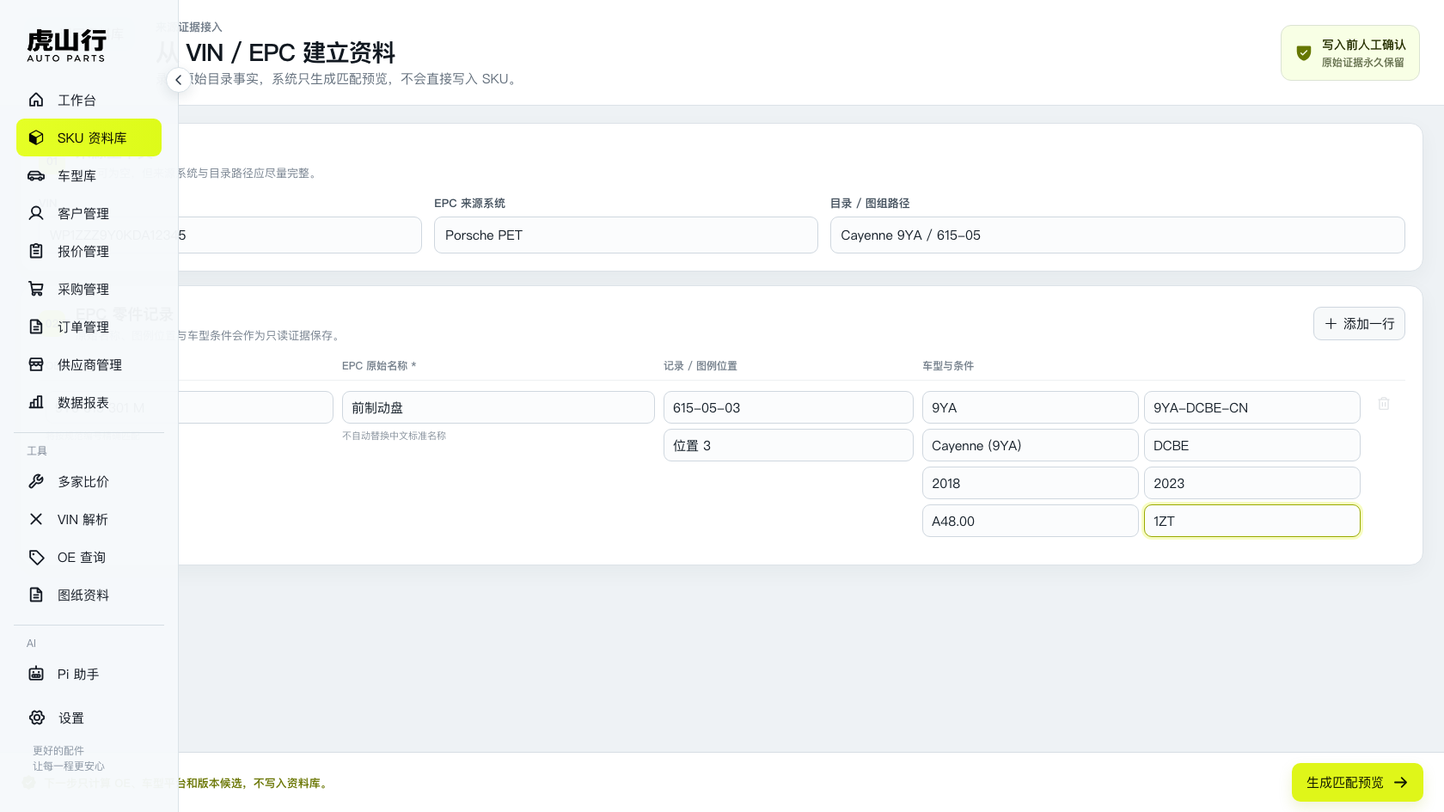
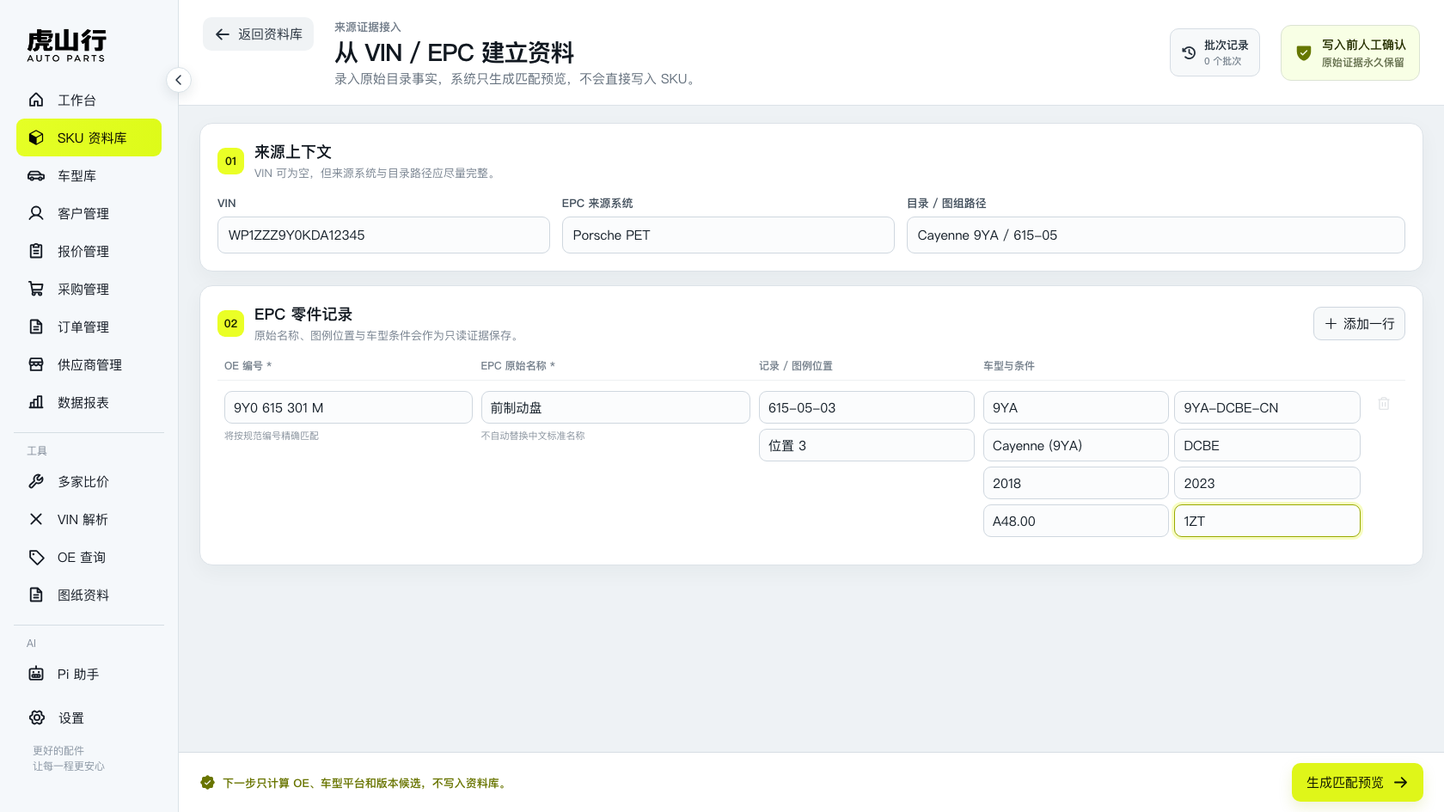
feat: add resumable EPC intake history

diff --git a/apps/web/src/sku-epc-intake.css b/apps/web/src/sku-epc-intake.css
@@ -1,1 +1,1 @@
-.epc-intake{grid-column:2;min-width:0;height:100vh;background:#eef2f5;color:#111820;display:grid;grid-template-rows:auto 1fr auto;overflow:hidden}.sidebar-collapsed .epc-intake{grid-column:2}.epc-intake button,.epc-intake input{font:inherit}.epc-intake-topbar{min-height:112px;padding:20px 28px;background:#fff;border-bottom:1px solid #dce2e8;display:flex;align-items:center;gap:24px}.epc-intake-topbar>button{align-self:flex-start;border:0;background:#f0f3f5;border-radius:10px;padding:9px 13px;color:#25303c;display:flex;align-items:center;gap:8px;font-size:14px;font-weight:700;cursor:pointer}.epc-intake-topbar>div:nth-child(2){flex:1}.epc-intake-topbar span{font-size:13px;font-weight:800;color:#707b88}.epc-intake-topbar h1{margin:4px 0;font-size:28px;line-height:1.15;letter-spacing:-.035em}.epc-intake-topbar p{margin:0;color:#64707d;font-size:15px}.epc-safety{display:flex;align-items:center;gap:10px;padding:12px 15px;border:1px solid #dbe3d3;background:#f8ffe5;border-radius:12px;color:#667700}.epc-safety span{display:flex;flex-direction:column}.epc-safety strong{font-size:14px;color:#273000}.epc-safety small{font-size:12px;color:#66704f;margin-top:2px}.epc-form-body{padding:20px 24px 28px;overflow:auto}.epc-source-card,.epc-lines-card{background:#fff;border:1px solid #dce2e8;border-radius:15px;box-shadow:0 8px 24px rgba(28,39,51,.045)}.epc-source-card{padding:20px}.epc-lines-card{margin-top:16px;padding:20px}.epc-section-title{display:flex;align-items:center;gap:12px}.epc-section-title>span,.epc-decision-panel>header>span{width:31px;height:31px;border-radius:9px;background:#eaff26;color:#172000;display:grid;place-items:center;font-weight:900;font-size:13px}.epc-section-title h2,.epc-decision-panel h2{font-size:18px;margin:0}.epc-section-title p,.epc-decision-panel p{font-size:13px;color:#788390;margin:3px 0 0}.epc-section-title>button{margin-left:auto;border:1px solid #ced6df;background:#f7f9fa;border-radius:9px;padding:8px 11px;display:flex;align-items:center;gap:6px;font-size:13px;font-weight:800;cursor:pointer}.epc-source-fields{display:grid;grid-template-columns:1fr 1fr 1.5fr;gap:14px;margin-top:17px}.epc-source-fields label{display:flex;flex-direction:column;gap:7px}.epc-source-fields label span{font-size:13px;font-weight:800;color:#43505d}.epc-source-fields input,.epc-line input{border:1px solid #cfd7df;background:#fbfcfd;border-radius:9px;color:#16202a;outline:none}.epc-source-fields input{height:43px;padding:0 12px;font-size:15px}.epc-source-fields input:focus,.epc-line input:focus{border-color:#9aaa00;box-shadow:0 0 0 3px rgba(220,244,0,.24)}.epc-lines-head,.epc-line{display:grid;grid-template-columns:1.15fr 1.25fr 1fr 1.75fr 34px;gap:10px}.epc-lines-head{margin:18px 0 8px;padding:0 8px;color:#75808c;font-size:12px;font-weight:800}.epc-line{align-items:start;border-top:1px solid #edf0f2;padding:12px 8px}.epc-line>div{display:flex;flex-direction:column;gap:6px}.epc-line input{height:38px;padding:0 10px;font-size:14px;min-width:0}.epc-line small{font-size:11px;color:#89939e}.epc-line>button{height:34px;border:0;border-radius:8px;background:transparent;color:#87919c;cursor:pointer}.epc-line>button:hover:not(:disabled){color:#d7392f;background:#fff0ef}.epc-line>button:disabled{opacity:.3}.epc-condition-grid{display:grid!important;grid-template-columns:1fr 1fr;gap:6px!important}.epc-actionbar{background:#fff;border-top:1px solid #d6dde4;min-height:70px;padding:12px 24px;display:flex;align-items:center;gap:18px}.epc-actionbar>div{display:flex;align-items:center;gap:8px;color:#697500;font-size:13px;font-weight:700}.epc-actionbar>p{margin-left:auto;display:flex;align-items:center;gap:6px;color:#c43d31;font-size:13px}.epc-actionbar>button{margin-left:auto;border:0;border-radius:10px;background:#dff619;color:#101700;padding:12px 17px;display:flex;align-items:center;gap:10px;font-size:15px;font-weight:900;cursor:pointer;box-shadow:0 7px 16px rgba(158,178,0,.17)}.epc-actionbar>p+button{margin-left:0}.epc-actionbar>button:disabled{opacity:.48;cursor:not-allowed}.epc-summary-pills{display:flex;gap:7px}.epc-summary-pills span,.epc-match-badge,.epc-review-list em{border-radius:999px;padding:7px 10px;font-size:12px!important;font-style:normal}.exact{color:#087246!important;background:#e5f8ef!important}.new{color:#345da8!important;background:#e9f2ff!important}.ambiguous{color:#9c5f00!important;background:#fff1d9!important}.epc-review-grid{min-height:0;display:grid;grid-template-columns:330px minmax(430px,1fr) 310px;gap:12px;padding:14px}.epc-review-list,.epc-match-detail,.epc-decision-panel{min-height:0;background:#fff;border:1px solid #dce2e8;border-radius:14px;overflow:hidden}.epc-review-list{display:flex;flex-direction:column}.epc-review-list>header{padding:16px;border-bottom:1px solid #e4e8ec;display:flex;justify-content:space-between}.epc-review-list h2{font-size:17px;margin:0}.epc-review-list p{font-size:12px;color:#828c97;margin:3px 0 0}.epc-review-list>header>strong{color:#657300;font-size:13px}.epc-review-list>button{border:0;border-bottom:1px solid #edf0f2;background:#fff;padding:13px 12px;display:grid;grid-template-columns:20px 1fr auto;gap:10px;text-align:left;align-items:start;cursor:pointer}.epc-review-list>button.active{background:#f8ffd9;box-shadow:inset 3px 0 #d7ef00}.epc-review-list>button.done{opacity:.68}.epc-review-list input{margin-top:4px;accent-color:#9fb500}.epc-review-list button span{display:flex;flex-direction:column;min-width:0}.epc-review-list button b{font-size:16px}.epc-review-list button strong{font-size:13px;margin-top:3px;white-space:nowrap;overflow:hidden;text-overflow:ellipsis}.epc-review-list button small{font-size:11px;color:#7c8791;margin-top:4px}.epc-review-list em{align-self:center;white-space:nowrap;padding:5px 7px}.epc-match-detail{display:grid;grid-template-rows:auto 1fr}.epc-match-detail>header{padding:18px 20px;border-bottom:1px solid #e1e6eb;display:flex;justify-content:space-between;align-items:center}.epc-match-detail>header span{font-size:12px;font-weight:800;color:#7d8791}.epc-match-detail h2{font-size:25px;margin:3px 0}.epc-match-detail header p{font-size:14px;color:#53606d;margin:0}.epc-match-badge{display:flex;align-items:center;gap:7px;font-weight:900}.epc-detail-scroll{overflow:auto;padding:0 20px 22px}.epc-detail-scroll>section{padding:18px 0;border-bottom:1px solid #e7ebee}.epc-detail-title{display:flex;justify-content:space-between;align-items:center;margin-bottom:12px}.epc-detail-title h3{font-size:15px;margin:0}.epc-detail-title span{font-size:11px;color:#7e8994;background:#f1f4f6;padding:4px 7px;border-radius:6px}.epc-detail-scroll dl{display:grid;grid-template-columns:1fr 1fr;gap:10px;margin:0}.epc-detail-scroll dl div{background:#f6f8fa;border-radius:8px;padding:9px 10px}.epc-detail-scroll dt{font-size:11px;color:#82909c}.epc-detail-scroll dd{margin:4px 0 0;font-size:13px;font-weight:800}.epc-candidate,.epc-platform-match{display:flex;gap:10px;align-items:center;border:1px solid #dbe4d0;background:#fbfff0;border-radius:10px;padding:11px;color:#548200}.epc-candidate span,.epc-platform-match span{display:flex;flex:1;flex-direction:column;color:#1b2731}.epc-candidate strong,.epc-platform-match strong{font-size:14px}.epc-candidate small,.epc-platform-match small{font-size:11px;color:#77818b;margin-top:3px}.epc-candidate em{font-size:11px;color:#17714c;font-style:normal}.epc-no-candidate{display:flex;gap:10px;align-items:center;padding:13px;border:1px dashed #cbd6df;border-radius:10px;color:#587593}.epc-no-candidate.warning{color:#a76a00;background:#fffbf2}.epc-no-candidate span{display:flex;flex-direction:column}.epc-no-candidate strong{font-size:13px}.epc-no-candidate small{font-size:11px;color:#75818c;margin-top:3px}.epc-variant{display:grid;grid-template-columns:1fr auto;gap:4px 10px;padding:10px;border:1px solid #e1e6ea;border-radius:9px;margin-top:7px}.epc-variant div{display:flex;gap:8px}.epc-variant strong{font-size:13px}.epc-variant small{font-size:11px;color:#808b96}.epc-variant b{font-size:13px;color:#637000}.epc-variant p{grid-column:1/-1;margin:0;font-size:11px;color:#6e7984}.epc-decision-panel{padding:18px;display:flex;flex-direction:column}.epc-decision-panel>header>span{float:left;margin-right:10px}.epc-decision-panel>header p{clear:both;padding-top:12px;line-height:1.5}.epc-decision-options{margin-top:15px;display:flex;flex-direction:column;gap:8px}.epc-decision-options>label{border:1px solid #dbe1e6;border-radius:10px;padding:11px;display:flex;gap:9px;cursor:pointer}.epc-decision-options>label.active{border-color:#b8cc00;background:#f9ffdf;box-shadow:0 0 0 2px rgba(217,240,0,.22)}.epc-decision-options input{accent-color:#94a800}.epc-decision-options label span{display:flex;flex-direction:column}.epc-decision-options label strong{font-size:13px}.epc-decision-options label small{font-size:11px;color:#75808c;margin-top:3px;line-height:1.4}.epc-manual-warning{display:flex;gap:8px;padding:10px;color:#9b6400;background:#fff4dd;border-radius:9px}.epc-manual-warning span{display:flex;flex-direction:column}.epc-manual-warning strong{font-size:12px}.epc-manual-warning small{font-size:11px;margin-top:3px}.epc-write-contract{margin-top:auto;padding-top:16px;border-top:1px solid #e4e8eb}.epc-write-contract h3{font-size:13px;margin:0 0 9px}.epc-write-contract ul{list-style:none;margin:0;padding:0;display:flex;flex-direction:column;gap:7px}.epc-write-contract li{font-size:11px;color:#69747e;display:flex;align-items:center;gap:6px}.epc-write-contract li svg{color:#718000}@media(max-width:1280px){.epc-review-grid{grid-template-columns:290px minmax(390px,1fr) 280px}.epc-source-fields{grid-template-columns:1fr 1fr}.epc-source-fields label:last-child{grid-column:1/-1}.epc-lines-head,.epc-line{grid-template-columns:1fr 1fr .9fr 1.4fr 32px}}@media(max-width:1000px){.epc-review-grid{grid-template-columns:280px 1fr}.epc-decision-panel{grid-column:1/-1;min-height:240px}.epc-lines-head{display:none}.epc-line{grid-template-columns:1fr 1fr}.epc-line>button{position:absolute;right:30px}.epc-condition-grid{grid-column:1/-1}.epc-intake-topbar{align-items:flex-start;flex-wrap:wrap}}.epc-manual-warning{flex-wrap:wrap}.epc-manual-warning select{flex:0 0 100%;height:36px;border:1px solid #e2b558;border-radius:8px;background:#fff;padding:0 9px;color:#45320b;font-size:12px;outline:none}.epc-manual-warning select:focus{border-color:#a77800;box-shadow:0 0 0 3px rgba(255,198,55,.2)}
+.epc-intake{grid-column:2;min-width:0;height:100vh;background:#eef2f5;color:#111820;display:grid;grid-template-rows:auto 1fr auto;overflow:hidden}.sidebar-collapsed .epc-intake{grid-column:2}.epc-intake button,.epc-intake input{font:inherit}.epc-intake-topbar{min-height:112px;padding:20px 28px;background:#fff;border-bottom:1px solid #dce2e8;display:flex;align-items:center;gap:24px}.epc-intake-topbar>button{align-self:flex-start;border:0;background:#f0f3f5;border-radius:10px;padding:9px 13px;color:#25303c;display:flex;align-items:center;gap:8px;font-size:14px;font-weight:700;cursor:pointer}.epc-intake-topbar>div:nth-child(2){flex:1}.epc-intake-topbar span{font-size:13px;font-weight:800;color:#707b88}.epc-intake-topbar h1{margin:4px 0;font-size:28px;line-height:1.15;letter-spacing:-.035em}.epc-intake-topbar p{margin:0;color:#64707d;font-size:15px}.epc-safety{display:flex;align-items:center;gap:10px;padding:12px 15px;border:1px solid #dbe3d3;background:#f8ffe5;border-radius:12px;color:#667700}.epc-safety span{display:flex;flex-direction:column}.epc-safety strong{font-size:14px;color:#273000}.epc-safety small{font-size:12px;color:#66704f;margin-top:2px}.epc-form-body{padding:20px 24px 28px;overflow:auto}.epc-source-card,.epc-lines-card{background:#fff;border:1px solid #dce2e8;border-radius:15px;box-shadow:0 8px 24px rgba(28,39,51,.045)}.epc-source-card{padding:20px}.epc-lines-card{margin-top:16px;padding:20px}.epc-section-title{display:flex;align-items:center;gap:12px}.epc-section-title>span,.epc-decision-panel>header>span{width:31px;height:31px;border-radius:9px;background:#eaff26;color:#172000;display:grid;place-items:center;font-weight:900;font-size:13px}.epc-section-title h2,.epc-decision-panel h2{font-size:18px;margin:0}.epc-section-title p,.epc-decision-panel p{font-size:13px;color:#788390;margin:3px 0 0}.epc-section-title>button{margin-left:auto;border:1px solid #ced6df;background:#f7f9fa;border-radius:9px;padding:8px 11px;display:flex;align-items:center;gap:6px;font-size:13px;font-weight:800;cursor:pointer}.epc-source-fields{display:grid;grid-template-columns:1fr 1fr 1.5fr;gap:14px;margin-top:17px}.epc-source-fields label{display:flex;flex-direction:column;gap:7px}.epc-source-fields label span{font-size:13px;font-weight:800;color:#43505d}.epc-source-fields input,.epc-line input{border:1px solid #cfd7df;background:#fbfcfd;border-radius:9px;color:#16202a;outline:none}.epc-source-fields input{height:43px;padding:0 12px;font-size:15px}.epc-source-fields input:focus,.epc-line input:focus{border-color:#9aaa00;box-shadow:0 0 0 3px rgba(220,244,0,.24)}.epc-lines-head,.epc-line{display:grid;grid-template-columns:1.15fr 1.25fr 1fr 1.75fr 34px;gap:10px}.epc-lines-head{margin:18px 0 8px;padding:0 8px;color:#75808c;font-size:12px;font-weight:800}.epc-line{align-items:start;border-top:1px solid #edf0f2;padding:12px 8px}.epc-line>div{display:flex;flex-direction:column;gap:6px}.epc-line input{height:38px;padding:0 10px;font-size:14px;min-width:0}.epc-line small{font-size:11px;color:#89939e}.epc-line>button{height:34px;border:0;border-radius:8px;background:transparent;color:#87919c;cursor:pointer}.epc-line>button:hover:not(:disabled){color:#d7392f;background:#fff0ef}.epc-line>button:disabled{opacity:.3}.epc-condition-grid{display:grid!important;grid-template-columns:1fr 1fr;gap:6px!important}.epc-actionbar{background:#fff;border-top:1px solid #d6dde4;min-height:70px;padding:12px 24px;display:flex;align-items:center;gap:18px}.epc-actionbar>div{display:flex;align-items:center;gap:8px;color:#697500;font-size:13px;font-weight:700}.epc-actionbar>p{margin-left:auto;display:flex;align-items:center;gap:6px;color:#c43d31;font-size:13px}.epc-actionbar>button{margin-left:auto;border:0;border-radius:10px;background:#dff619;color:#101700;padding:12px 17px;display:flex;align-items:center;gap:10px;font-size:15px;font-weight:900;cursor:pointer;box-shadow:0 7px 16px rgba(158,178,0,.17)}.epc-actionbar>p+button{margin-left:0}.epc-actionbar>button:disabled{opacity:.48;cursor:not-allowed}.epc-summary-pills{display:flex;gap:7px}.epc-summary-pills span,.epc-match-badge,.epc-review-list em{border-radius:999px;padding:7px 10px;font-size:12px!important;font-style:normal}.exact{color:#087246!important;background:#e5f8ef!important}.new{color:#345da8!important;background:#e9f2ff!important}.ambiguous{color:#9c5f00!important;background:#fff1d9!important}.epc-review-grid{min-height:0;display:grid;grid-template-columns:330px minmax(430px,1fr) 310px;gap:12px;padding:14px}.epc-review-list,.epc-match-detail,.epc-decision-panel{min-height:0;background:#fff;border:1px solid #dce2e8;border-radius:14px;overflow:hidden}.epc-review-list{display:flex;flex-direction:column}.epc-review-list>header{padding:16px;border-bottom:1px solid #e4e8ec;display:flex;justify-content:space-between}.epc-review-list h2{font-size:17px;margin:0}.epc-review-list p{font-size:12px;color:#828c97;margin:3px 0 0}.epc-review-list>header>strong{color:#657300;font-size:13px}.epc-review-list>button{border:0;border-bottom:1px solid #edf0f2;background:#fff;padding:13px 12px;display:grid;grid-template-columns:20px 1fr auto;gap:10px;text-align:left;align-items:start;cursor:pointer}.epc-review-list>button.active{background:#f8ffd9;box-shadow:inset 3px 0 #d7ef00}.epc-review-list>button.done{opacity:.68}.epc-review-list input{margin-top:4px;accent-color:#9fb500}.epc-review-list button span{display:flex;flex-direction:column;min-width:0}.epc-review-list button b{font-size:16px}.epc-review-list button strong{font-size:13px;margin-top:3px;white-space:nowrap;overflow:hidden;text-overflow:ellipsis}.epc-review-list button small{font-size:11px;color:#7c8791;margin-top:4px}.epc-review-list em{align-self:center;white-space:nowrap;padding:5px 7px}.epc-match-detail{display:grid;grid-template-rows:auto 1fr}.epc-match-detail>header{padding:18px 20px;border-bottom:1px solid #e1e6eb;display:flex;justify-content:space-between;align-items:center}.epc-match-detail>header span{font-size:12px;font-weight:800;color:#7d8791}.epc-match-detail h2{font-size:25px;margin:3px 0}.epc-match-detail header p{font-size:14px;color:#53606d;margin:0}.epc-match-badge{display:flex;align-items:center;gap:7px;font-weight:900}.epc-detail-scroll{overflow:auto;padding:0 20px 22px}.epc-detail-scroll>section{padding:18px 0;border-bottom:1px solid #e7ebee}.epc-detail-title{display:flex;justify-content:space-between;align-items:center;margin-bottom:12px}.epc-detail-title h3{font-size:15px;margin:0}.epc-detail-title span{font-size:11px;color:#7e8994;background:#f1f4f6;padding:4px 7px;border-radius:6px}.epc-detail-scroll dl{display:grid;grid-template-columns:1fr 1fr;gap:10px;margin:0}.epc-detail-scroll dl div{background:#f6f8fa;border-radius:8px;padding:9px 10px}.epc-detail-scroll dt{font-size:11px;color:#82909c}.epc-detail-scroll dd{margin:4px 0 0;font-size:13px;font-weight:800}.epc-candidate,.epc-platform-match{display:flex;gap:10px;align-items:center;border:1px solid #dbe4d0;background:#fbfff0;border-radius:10px;padding:11px;color:#548200}.epc-candidate span,.epc-platform-match span{display:flex;flex:1;flex-direction:column;color:#1b2731}.epc-candidate strong,.epc-platform-match strong{font-size:14px}.epc-candidate small,.epc-platform-match small{font-size:11px;color:#77818b;margin-top:3px}.epc-candidate em{font-size:11px;color:#17714c;font-style:normal}.epc-no-candidate{display:flex;gap:10px;align-items:center;padding:13px;border:1px dashed #cbd6df;border-radius:10px;color:#587593}.epc-no-candidate.warning{color:#a76a00;background:#fffbf2}.epc-no-candidate span{display:flex;flex-direction:column}.epc-no-candidate strong{font-size:13px}.epc-no-candidate small{font-size:11px;color:#75818c;margin-top:3px}.epc-variant{display:grid;grid-template-columns:1fr auto;gap:4px 10px;padding:10px;border:1px solid #e1e6ea;border-radius:9px;margin-top:7px}.epc-variant div{display:flex;gap:8px}.epc-variant strong{font-size:13px}.epc-variant small{font-size:11px;color:#808b96}.epc-variant b{font-size:13px;color:#637000}.epc-variant p{grid-column:1/-1;margin:0;font-size:11px;color:#6e7984}.epc-decision-panel{padding:18px;display:flex;flex-direction:column}.epc-decision-panel>header>span{float:left;margin-right:10px}.epc-decision-panel>header p{clear:both;padding-top:12px;line-height:1.5}.epc-decision-options{margin-top:15px;display:flex;flex-direction:column;gap:8px}.epc-decision-options>label{border:1px solid #dbe1e6;border-radius:10px;padding:11px;display:flex;gap:9px;cursor:pointer}.epc-decision-options>label.active{border-color:#b8cc00;background:#f9ffdf;box-shadow:0 0 0 2px rgba(217,240,0,.22)}.epc-decision-options input{accent-color:#94a800}.epc-decision-options label span{display:flex;flex-direction:column}.epc-decision-options label strong{font-size:13px}.epc-decision-options label small{font-size:11px;color:#75808c;margin-top:3px;line-height:1.4}.epc-manual-warning{display:flex;gap:8px;padding:10px;color:#9b6400;background:#fff4dd;border-radius:9px}.epc-manual-warning span{display:flex;flex-direction:column}.epc-manual-warning strong{font-size:12px}.epc-manual-warning small{font-size:11px;margin-top:3px}.epc-write-contract{margin-top:auto;padding-top:16px;border-top:1px solid #e4e8eb}.epc-write-contract h3{font-size:13px;margin:0 0 9px}.epc-write-contract ul{list-style:none;margin:0;padding:0;display:flex;flex-direction:column;gap:7px}.epc-write-contract li{font-size:11px;color:#69747e;display:flex;align-items:center;gap:6px}.epc-write-contract li svg{color:#718000}@media(max-width:1280px){.epc-review-grid{grid-template-columns:290px minmax(390px,1fr) 280px}.epc-source-fields{grid-template-columns:1fr 1fr}.epc-source-fields label:last-child{grid-column:1/-1}.epc-lines-head,.epc-line{grid-template-columns:1fr 1fr .9fr 1.4fr 32px}}@media(max-width:1000px){.epc-review-grid{grid-template-columns:280px 1fr}.epc-decision-panel{grid-column:1/-1;min-height:240px}.epc-lines-head{display:none}.epc-line{grid-template-columns:1fr 1fr}.epc-line>button{position:absolute;right:30px}.epc-condition-grid{grid-column:1/-1}.epc-intake-topbar{align-items:flex-start;flex-wrap:wrap}}.epc-manual-warning{flex-wrap:wrap}.epc-manual-warning select{flex:0 0 100%;height:36px;border:1px solid #e2b558;border-radius:8px;background:#fff;padding:0 9px;color:#45320b;font-size:12px;outline:none}.epc-manual-warning select:focus{border-color:#a77800;box-shadow:0 0 0 3px rgba(255,198,55,.2)}.epc-intake-topbar>.epc-history-button{align-self:center;border:1px solid #d6dde4;background:#f7f9fa;padding:9px 12px}.epc-history-button span{display:flex;flex-direction:column;align-items:flex-start}.epc-history-button strong{font-size:13px;color:#24303b}.epc-history-button small{font-size:11px;color:#7c8792;margin-top:2px}.epc-intake-topbar>.epc-new-batch{align-self:center;background:#dff619;color:#162000;padding:11px 14px}.epc-history-body{padding:18px 22px 24px;min-height:0;overflow:auto}.epc-history-panel{background:#fff;border:1px solid #dce2e8;border-radius:15px;box-shadow:0 8px 24px rgba(28,39,51,.045);overflow:hidden}.epc-history-panel>header{padding:18px 20px;border-bottom:1px solid #e2e7eb;display:flex;align-items:center;justify-content:space-between}.epc-history-panel h2{font-size:18px;margin:0}.epc-history-panel header p{font-size:13px;color:#7a8590;margin:3px 0 0}.epc-history-panel>header button{border:1px solid #d3dae1;background:#f8fafb;border-radius:8px;padding:7px 10px;display:flex;align-items:center;gap:6px;font-size:12px;font-weight:800;color:#43505d;cursor:pointer}.epc-history-heading,.epc-history-list>button{display:grid;grid-template-columns:minmax(270px,1.8fr) minmax(210px,1.15fr) minmax(130px,.7fr) minmax(110px,.65fr) 20px;gap:16px;align-items:center}.epc-history-heading{padding:10px 20px;background:#f5f7f9;color:#727e89;font-size:11px;font-weight:800}.epc-history-list>button{width:100%;padding:15px 20px;border:0;border-top:1px solid #edf0f2;background:#fff;text-align:left;color:#1c2630;cursor:pointer}.epc-history-list>button:hover{background:#fbfdea}.epc-history-list>button:focus-visible{outline:3px solid rgba(202,224,0,.35);outline-offset:-3px}.epc-history-list>button>span:first-child{display:flex;flex-direction:column;min-width:0}.epc-history-list>button strong{font-size:15px}.epc-history-list>button small{font-size:12px;color:#7b8691;margin-top:4px;white-space:nowrap;overflow:hidden;text-overflow:ellipsis}.epc-history-list>button>span:nth-child(2){display:flex;gap:5px;flex-wrap:wrap}.epc-history-list>button b{font-size:11px;font-weight:800;background:#f1f4f6;color:#56626e;padding:4px 6px;border-radius:6px}.epc-history-list em{justify-self:start;border-radius:999px;padding:5px 8px;font-size:11px;font-weight:900;font-style:normal;white-space:nowrap}.epc-history-list em.pending{background:#fff2d8;color:#946000}.epc-history-list em.partial{background:#e8f1ff;color:#315f9b}.epc-history-list em.completed{background:#e5f8ef;color:#087246}.epc-history-list time{font-size:12px;color:#66727e}.epc-history-empty{min-height:330px;display:flex;flex-direction:column;align-items:center;justify-content:center;color:#71808d}.epc-history-empty strong{font-size:16px;color:#2a3540;margin-top:8px}.epc-history-empty span{font-size:12px;margin-top:5px}.epc-history-empty button{margin-top:14px;border:0;border-radius:9px;background:#dff619;padding:9px 13px;font-size:13px;font-weight:900;cursor:pointer}.epc-history-loading{padding:80px;text-align:center;color:#78838e;font-size:13px}@media(max-width:1180px){.epc-history-heading,.epc-history-list>button{grid-template-columns:minmax(240px,1.5fr) minmax(190px,1fr) minmax(120px,.7fr) 20px}.epc-history-heading span:nth-child(4),.epc-history-list time{display:none}}.epc-intake{margin-left:var(--wb-sidebar-expanded)}.sidebar-collapsed .epc-intake{margin-left:var(--wb-sidebar-rail)}

diff --git a/apps/web/src/components/SkuEpcIntake.jsx b/apps/web/src/components/SkuEpcIntake.jsx
@@ -1,6 +1,6 @@
-import { useMemo, useState } from 'react'
-import { ArrowLeft, ArrowRight, Check, CheckCircle, Database, MagnifyingGlass as FileSearch, Plus, SealCheck, ShieldCheck, Trash, WarningCircle } from '@phosphor-icons/react'
-import { commitCatalogEpcPreview, createCatalogEpcPreview } from '../services/catalogApi'
+import { useCallback, useEffect, useMemo, useState } from 'react'
+import { ArrowLeft, ArrowRight, Check, CheckCircle, ClockCounterClockwise, Database, MagnifyingGlass as FileSearch, Plus, SealCheck, ShieldCheck, Trash, WarningCircle } from '@phosphor-icons/react'
+import { commitCatalogEpcPreview, createCatalogEpcPreview, getCatalogEpcPreview, listCatalogEpcPreviews } from '../services/catalogApi'
 import '../sku-epc-intake.css'
 
 const emptyRow = () => ({ oe: '', originalName: '', sourceRecordId: '', figurePosition: '', platformCode: '', variantCode: '', vehicleLabel: '', yearFrom: '', yearTo: '', engineCodesText: '', transmissionCodesText: '', prCodesText: '', position: '' })
@@ -15,6 +15,23 @@ function toPayload(row) {
   return { ...row, yearFrom: row.yearFrom || null, yearTo: row.yearTo || null, engineCodes: splitCodes(row.engineCodesText), transmissionCodes: splitCodes(row.transmissionCodesText), prCodes: splitCodes(row.prCodesText) }
 }
 
+function previewDecisions(preview) {
+  return Object.fromEntries(preview.items.map((item) => [item.id, {
+    selected: item.decisionState === 'pending' && item.matchState !== 'ambiguous',
+    action: item.matchState === 'exact' ? 'attach_evidence' : item.matchState === 'new' ? 'create_sku' : 'skip',
+    targetSkuId: item.matchedSkuId || '',
+  }]))
+}
+
+function displayTime(value) {
+  if (!value) return '—'
+  return new Intl.DateTimeFormat('zh-CN', { month: '2-digit', day: '2-digit', hour: '2-digit', minute: '2-digit', hour12: false }).format(new Date(value))
+}
+
+const previewStateMeta = {
+  preview: ['待处理', 'pending'], partial: ['处理中', 'partial'], completed: ['已完成', 'completed'],
+}
+
 export function SkuEpcIntake({ onBack, onComplete, onNotify }) {
   const [form, setForm] = useState({ vin: '', sourceSystem: 'Porsche PET', catalogPath: '', rows: [emptyRow()] })
   const [preview, setPreview] = useState(null)
@@ -22,17 +39,36 @@ export function SkuEpcIntake({ onBack, onComplete, onNotify }) {
   const [decisions, setDecisions] = useState({})
   const [busy, setBusy] = useState(false)
   const [error, setError] = useState('')
+  const [historyOpen, setHistoryOpen] = useState(false)
+  const [history, setHistory] = useState({ items: [], total: 0 })
+  const [historyLoading, setHistoryLoading] = useState(true)
   const selected = preview?.items.find((item) => item.id === selectedId) || preview?.items[0]
   const selectedDecisions = useMemo(() => preview?.items.filter((item) => decisions[item.id]?.selected && item.decisionState === 'pending') || [], [decisions, preview])
 
   const updateRow = (index, key, value) => setForm((current) => ({ ...current, rows: current.rows.map((row, rowIndex) => rowIndex === index ? { ...row, [key]: value } : row) }))
+
+  const loadHistory = useCallback(async () => {
+    setHistoryLoading(true)
+    try { setHistory(await listCatalogEpcPreviews()) } catch (nextError) { setError(nextError.message) } finally { setHistoryLoading(false) }
+  }, [])
+
+  useEffect(() => { loadHistory() }, [loadHistory])
+
+  const openHistory = async (id) => {
+    setBusy(true); setError('')
+    try {
+      const result = await getCatalogEpcPreview(id)
+      setPreview(result); setSelectedId(result.items.find((item) => item.decisionState === 'pending')?.id || result.items[0]?.id || '')
+      setDecisions(previewDecisions(result))
+    } catch (nextError) { setError(nextError.message) } finally { setBusy(false) }
+  }
 
   const buildPreview = async () => {
     setBusy(true); setError('')
     try {
       const result = await createCatalogEpcPreview({ vin: form.vin, sourceSystem: form.sourceSystem, catalogPath: form.catalogPath, items: form.rows.map(toPayload) })
       setPreview(result); setSelectedId(result.items[0]?.id || '')
-      setDecisions(Object.fromEntries(result.items.map((item) => [item.id, { selected: item.matchState !== 'ambiguous', action: item.matchState === 'exact' ? 'attach_evidence' : item.matchState === 'new' ? 'create_sku' : 'skip', targetSkuId: item.matchedSkuId || '' } ])))
+      setDecisions(previewDecisions(result)); loadHistory()
     } catch (nextError) { setError(nextError.message) } finally { setBusy(false) }
   }
 
@@ -41,14 +77,32 @@ export function SkuEpcIntake({ onBack, onComplete, onNotify }) {
     try {
       const result = await commitCatalogEpcPreview(preview, selectedDecisions.map((item) => ({ itemId: item.id, action: decisions[item.id].action, targetSkuId: decisions[item.id].targetSkuId })))
       setPreview(result)
+      setDecisions(previewDecisions(result)); loadHistory()
       onNotify?.(`已处理 ${selectedDecisions.length} 条 EPC 记录，人工字段保持不变`)
-      if (result.state === 'completed') onComplete?.(result)
     } catch (nextError) { setError(nextError.message) } finally { setBusy(false) }
   }
 
+  if (!preview && historyOpen) return (
+    <main className="epc-intake epc-history-workspace">
+      <header className="epc-intake-topbar"><button type="button" onClick={onBack}><ArrowLeft size={20} weight="bold" />返回资料库</button><div><span>来源证据接入</span><h1>EPC 批次记录</h1><p>恢复未完成批次，核对每一次写入决定与结果 SKU。</p></div><button className="epc-new-batch" type="button" onClick={() => setHistoryOpen(false)}><Plus size={18} weight="bold" />新建采集</button></header>
+      <div className="epc-history-body">
+        <section className="epc-history-panel">
+          <header><div><h2>证据处理队列</h2><p>原始来源不会因批次完成而删除，未选择行可继续处理。</p></div><button type="button" disabled={historyLoading} onClick={loadHistory}><ClockCounterClockwise size={17} />刷新</button></header>
+          <div className="epc-history-heading"><span>来源 / 目录</span><span>匹配摘要</span><span>处理状态</span><span>建立时间</span><span /></div>
+          <div className="epc-history-list">
+            {history.items.map((item) => { const meta = previewStateMeta[item.state] || previewStateMeta.preview; return <button type="button" key={item.id} disabled={busy} onClick={() => openHistory(item.id)}><span><strong>{item.sourceSystem}</strong><small>{item.catalogPath || '未填写目录路径'}{item.vin ? ` · ${item.vin}` : ''}</small></span><span><b>{item.summary?.exact || 0} 精确</b><b>{item.summary?.new || 0} 新建</b><b>{item.summary?.ambiguous || 0} 待判断</b></span><em className={meta[1]}>{meta[0]} · {item.progress?.processed || 0}/{item.progress?.total || item.summary?.total || 0}</em><time>{displayTime(item.createdAt)}</time><ArrowRight size={17} weight="bold" /></button> })}
+            {!historyLoading && !history.items.length ? <div className="epc-history-empty"><Database size={34} weight="duotone" /><strong>还没有 EPC 批次</strong><span>新建采集后，匹配预览和每次写入决定都会保存在这里。</span><button type="button" onClick={() => setHistoryOpen(false)}>新建第一批资料</button></div> : null}
+            {historyLoading ? <div className="epc-history-loading">正在读取证据批次…</div> : null}
+          </div>
+        </section>
+      </div>
+      <footer className="epc-actionbar"><div><SealCheck size={19} weight="fill" /><span>批次记录是审计依据，不提供删除入口。</span></div>{error ? <p><WarningCircle size={18} />{error}</p> : null}<button type="button" onClick={() => setHistoryOpen(false)}>新建 EPC 采集<ArrowRight size={19} weight="bold" /></button></footer>
+    </main>
+  )
+
   if (!preview) return (
     <main className="epc-intake epc-intake-form">
-      <header className="epc-intake-topbar"><button type="button" onClick={onBack}><ArrowLeft size={20} weight="bold" />返回资料库</button><div><span>来源证据接入</span><h1>从 VIN / EPC 建立资料</h1><p>录入原始目录事实，系统只生成匹配预览，不会直接写入 SKU。</p></div><div className="epc-safety"><ShieldCheck size={22} weight="fill" /><span><strong>写入前人工确认</strong><small>原始证据永久保留</small></span></div></header>
+      <header className="epc-intake-topbar"><button type="button" onClick={onBack}><ArrowLeft size={20} weight="bold" />返回资料库</button><div><span>来源证据接入</span><h1>从 VIN / EPC 建立资料</h1><p>录入原始目录事实，系统只生成匹配预览，不会直接写入 SKU。</p></div><button className="epc-history-button" type="button" onClick={() => setHistoryOpen(true)}><ClockCounterClockwise size={19} weight="bold" /><span><strong>批次记录</strong><small>{historyLoading ? '正在读取' : `${history.total} 个批次`}</small></span></button><div className="epc-safety"><ShieldCheck size={22} weight="fill" /><span><strong>写入前人工确认</strong><small>原始证据永久保留</small></span></div></header>
       <div className="epc-form-body">
         <section className="epc-source-card"><div className="epc-section-title"><span>01</span><div><h2>来源上下文</h2><p>VIN 可为空，但来源系统与目录路径应尽量完整。</p></div></div><div className="epc-source-fields"><label><span>VIN</span><input value={form.vin} maxLength={17} onChange={(event) => setForm({ ...form, vin: event.target.value.toUpperCase() })} placeholder="17 位 VIN" /></label><label><span>EPC 来源系统</span><input value={form.sourceSystem} onChange={(event) => setForm({ ...form, sourceSystem: event.target.value })} placeholder="例如 Porsche PET" /></label><label><span>目录 / 图组路径</span><input value={form.catalogPath} onChange={(event) => setForm({ ...form, catalogPath: event.target.value })} placeholder="例如 Macan 95B / 601-05" /></label></div></section>
         <section className="epc-lines-card"><div className="epc-section-title"><span>02</span><div><h2>EPC 零件记录</h2><p>原始名称、图例位置与车型条件会作为只读证据保存。</p></div><button type="button" onClick={() => setForm((current) => ({ ...current, rows: [...current.rows, emptyRow()] }))}><Plus size={17} />添加一行</button></div>
@@ -79,7 +133,7 @@ export function SkuEpcIntake({ onBack, onComplete, onNotify }) {
 
   return (
     <main className="epc-intake epc-review">
-      <header className="epc-intake-topbar"><button type="button" onClick={() => setPreview(null)}><ArrowLeft size={20} weight="bold" />返回修改来源</button><div><span>写入前匹配预览</span><h1>{preview.sourceSystem} · {preview.catalogPath || '未填写目录路径'}</h1><p>{preview.vin ? `VIN ${preview.vin}` : '无 VIN 上下文'} · 共 {preview.summary.total} 条</p></div><div className="epc-summary-pills"><span className="exact">{preview.summary.exact} 精确</span><span className="new">{preview.summary.new} 新建</span><span className="ambiguous">{preview.summary.ambiguous} 待判断</span></div></header>
+      <header className="epc-intake-topbar"><button type="button" onClick={() => { setPreview(null); setHistoryOpen(true); loadHistory() }}><ArrowLeft size={20} weight="bold" />返回批次记录</button><div><span>写入前匹配预览</span><h1>{preview.sourceSystem} · {preview.catalogPath || '未填写目录路径'}</h1><p>{preview.vin ? `VIN ${preview.vin}` : '无 VIN 上下文'} · 共 {preview.summary.total} 条 · v{preview.version}</p></div><div className="epc-summary-pills"><span className="exact">{preview.summary.exact} 精确</span><span className="new">{preview.summary.new} 新建</span><span className="ambiguous">{preview.summary.ambiguous} 待判断</span></div></header>
       <div className="epc-review-grid">
         <section className="epc-review-list"><header><div><h2>来源记录</h2><p>逐条选择是否写入</p></div><strong>{selectedDecisions.length} 已选</strong></header>{preview.items.map((item) => { const meta = statusMeta[item.matchState]; const decision = decisions[item.id] || {}; return <button type="button" className={`${selected?.id === item.id ? 'active' : ''} ${item.decisionState !== 'pending' ? 'done' : ''}`} key={item.id} onClick={() => setSelectedId(item.id)}><input type="checkbox" aria-label={`选择 ${item.oe}`} disabled={item.decisionState !== 'pending' || item.matchState === 'ambiguous'} checked={Boolean(decision.selected)} onClick={(event) => event.stopPropagation()} onChange={(event) => setDecisions((current) => ({ ...current, [item.id]: { ...current[item.id], selected: event.target.checked } }))} /><span><b>{item.oe}</b><strong>{item.originalName}</strong><small>{item.figurePosition || '无图例位置'}</small></span><em className={meta.className}>{item.decisionState === 'pending' ? meta.label : item.decisionState === 'created' ? '已新建' : item.decisionState === 'attached' ? '已附加' : '已跳过'}</em></button> })}</section>
         <section className="epc-match-detail">{selected ? <><header><div><span>规范 OE</span><h2>{selected.oe}</h2><p>{selected.originalName}</p></div><span className={`epc-match-badge ${statusMeta[selected.matchState].className}`}><FileSearch size={20} weight="duotone" />{statusMeta[selected.matchState].label}</span></header><div className="epc-detail-scroll"><section><div className="epc-detail-title"><h3>来源快照</h3><span>只读</span></div><dl><div><dt>来源记录</dt><dd>{selected.sourceRecordId || '—'}</dd></div><div><dt>图例位置</dt><dd>{selected.figurePosition || '—'}</dd></div><div><dt>平台提示</dt><dd>{selected.vehicleContext.platformCode || '—'}</dd></div><div><dt>车型版本</dt><dd>{selected.vehicleContext.variantCode || '—'}</dd></div><div><dt>发动机</dt><dd>{selected.vehicleContext.engineCodes?.join(' / ') || '—'}</dd></div><div><dt>PR 码</dt><dd>{selected.vehicleContext.prCodes?.join(' / ') || '—'}</dd></div></dl></section><section><div className="epc-detail-title"><h3>SKU 匹配解释</h3><span>{selected.matchCandidates.length} 个候选</span></div>{selected.matchCandidates.length ? selected.matchCandidates.map((candidate) => <article className="epc-candidate" key={candidate.id}><CheckCircle size={20} weight="fill" /><span><strong>{candidate.name || '未命名 SKU'}</strong><small>{candidate.skuCode} · v{candidate.version}</small></span><em>OE 完全一致</em></article>) : <div className="epc-no-candidate"><Database size={24} /><span><strong>没有相同 OE</strong><small>可建立草稿，名称仍需人工标准化。</small></span></div>}</section><section><div className="epc-detail-title"><h3>车型匹配解释</h3><span>{selected.platformMatch.id ? '平台已识别' : '未识别平台'}</span></div>{selected.platformMatch.id ? <article className="epc-platform-match"><ShieldCheck size={21} weight="fill" /><span><strong>{selected.platformMatch.label}</strong><small>{selected.platformMatch.code} · {selected.platformMatch.yearFrom || '—'}–{selected.platformMatch.yearTo || '—'}</small></span></article> : <div className="epc-no-candidate warning"><WarningCircle size={24} /><span><strong>平台未进入主数据</strong><small>仍可保存来源证据，但不会自动建立适配关系。</small></span></div>}{selected.variantCandidates.map((candidate) => <article className="epc-variant" key={candidate.id}><div><strong>{candidate.label}</strong><small>{candidate.code}</small></div><b>{candidate.score} 分</b><p>{candidate.reasons.join(' · ')}</p></article>)}</section></div></> : null}</section>
@@ -110,7 +164,7 @@ export function SkuEpcIntake({ onBack, onComplete, onNotify }) {
           <div className="epc-write-contract"><h3>本次写入边界</h3><ul><li><Check size={15} weight="bold" />原始名称、图组与 VIN 完整保留</li><li><Check size={15} weight="bold" />新适配关系默认为待核验</li><li><Check size={15} weight="bold" />现有人工名称、分类、价格不覆盖</li></ul></div>
         </aside>
       </div>
-      <footer className="epc-actionbar"><div><SealCheck size={19} weight="fill" /><span>将处理 {selectedDecisions.length} 条；所有决定都会留下审计记录。</span></div>{error ? <p><WarningCircle size={18} />{error}</p> : null}<button type="button" disabled={busy || !selectedDecisions.length} onClick={commit}>{busy ? '正在写入…' : '确认写入所选记录'}<ArrowRight size={19} weight="bold" /></button></footer>
+      <footer className="epc-actionbar"><div><SealCheck size={19} weight="fill" /><span>{preview.state === 'completed' ? '批次已完成；所有来源行和写入决定均已留痕。' : `将处理 ${selectedDecisions.length} 条；未选行可稍后从批次记录继续。`}</span></div>{error ? <p><WarningCircle size={18} />{error}</p> : null}{preview.state === 'completed' ? <button type="button" onClick={() => onComplete?.(preview)}>完成并返回资料库<ArrowRight size={19} weight="bold" /></button> : <button type="button" disabled={busy || !selectedDecisions.length} onClick={commit}>{busy ? '正在写入…' : '确认写入所选记录'}<ArrowRight size={19} weight="bold" /></button>}</footer>
     </main>
   )
 }

diff --git a/apps/web/tests/dashboard.spec.js b/apps/web/tests/dashboard.spec.js
@@ -164,6 +164,12 @@ test('creates a source-first SKU and submits it into the review queue', async ({
   const committed = await (await commitResponse).json()
   const skuId = committed.items[0].resultingSkuId
   expect(skuId).toBeTruthy()
+  await expect(page.getByRole('button', { name: '完成并返回资料库' })).toBeVisible()
+  await page.getByRole('button', { name: '返回批次记录' }).click()
+  await expect(page.getByRole('heading', { name: 'EPC 批次记录' })).toBeVisible()
+  await expect(page.getByText('已完成 · 1/1')).toBeVisible()
+  await expect(page.getByText(/Cayenne 9YA \/ 615-05/)).toBeVisible()
+  await page.screenshot({ path: 'qa-artifacts/implementation-sku-epc-history-1680.png', fullPage: false })
 
   const created = await (await page.request.get(`/api/v2/catalog/skus/${skuId}`)).json()
   const completed = await page.request.patch(`/api/v2/catalog/skus/${skuId}`, { data: {
@@ -177,9 +183,36 @@ test('creates a source-first SKU and submits it into the review queue', async ({
   expect(completed.ok()).toBeTruthy()
   const submitted = await page.request.post(`/api/v2/catalog/skus/${skuId}/transition`, { data: { expectedVersion: (await completed.json()).version, action: 'submit_review', assignee: '资料审核员' } })
   expect(submitted.ok()).toBeTruthy()
-  await page.goto('./#/sku')
+  await page.getByRole('button', { name: '返回资料库' }).click()
   await expect(page.getByRole('heading', { name: 'SKU 资料库' })).toBeVisible()
   await expect(page.getByText('前制动盘', { exact: true }).first()).toBeVisible()
+})
+
+test('resumes a partial EPC batch without repeating completed decisions', async ({ page }) => {
+  const headers = { 'x-operator-role': 'catalog_admin', 'x-operator-name': 'playwright', 'content-type': 'application/json' }
+  const preview = await (await page.request.post('/api/v2/catalog/epc-previews', { headers, data: {
+    sourceSystem: 'Audi ETKA', catalogPath: 'Q7 4M / 121-05', items: [
+      { oe: 'RESUME-EPC-001', originalName: 'Source row one', sourceRecordId: '121-05-01' },
+      { oe: 'RESUME-EPC-002', originalName: 'Source row two', sourceRecordId: '121-05-02' },
+    ],
+  } })).json()
+  const partial = await page.request.post(`/api/v2/catalog/epc-previews/${preview.id}/commit`, { headers, data: { expectedVersion: preview.version, decisions: [{ itemId: preview.items[0].id, action: 'skip' }] } })
+  expect(partial.ok()).toBeTruthy()
+  expect((await partial.json()).state).toBe('partial')
+
+  await page.getByRole('button', { name: 'SKU 资料库' }).click()
+  await page.getByRole('button', { name: '新建 SKU' }).click()
+  await page.getByRole('button', { name: /从 EPC \/ VIN 创建/ }).click()
+  await page.getByRole('button', { name: /批次记录/ }).click()
+  await expect(page.getByText('处理中 · 1/2')).toBeVisible()
+  await page.getByRole('button', { name: /Audi ETKA/ }).click()
+  await expect(page.getByText('已跳过', { exact: true })).toBeVisible()
+  await expect(page.getByText('建议新建', { exact: true }).first()).toBeVisible()
+  await page.getByText('跳过本条', { exact: true }).click()
+  await page.getByRole('button', { name: '确认写入所选记录' }).click()
+  await expect(page.getByRole('button', { name: '完成并返回资料库' })).toBeVisible()
+  await page.getByRole('button', { name: '返回批次记录' }).click()
+  await expect(page.getByText('已完成 · 2/2')).toBeVisible()
 })
 
 test('reviews a submitted SKU in the data quality workspace', async ({ page }) => {
@@ -410,7 +443,7 @@ test('manages supplier mapping profiles without deleting audit history', async (
   await expect(rulesDialog.locator('.sku-mapping-rule-preview')).toContainText('MANN-FILTER')
   await page.screenshot({ path: 'qa-artifacts/implementation-sku-import-rule-preview-1680.png', fullPage: false })
   await rulesDialog.getByRole('button', { name: '确认映射并预检查' }).click()
-  await expect(rulesDialog.getByText('燃油 滤芯', { exact: true })).toBeVisible()
+  await expect(rulesDialog.getByText('燃油 滤芯', { exact: true }).first()).toBeVisible()
   await expect(rulesDialog.getByText('AB-123', { exact: true })).toBeVisible()
   await expect(rulesDialog.getByText('MANN-FILTER', { exact: true })).toBeVisible()
   await rulesDialog.getByRole('button', { name: '关闭' }).first().click()

diff --git a/apps/web/src/components/SkuLibrary.jsx b/apps/web/src/components/SkuLibrary.jsx
@@ -208,7 +208,7 @@ export function SkuLibrary({ onNavigate, sidebarCollapsed, onToggleSidebar }) {
     return (
       <div className={`workbench-home sku-workspace ${sidebarCollapsed ? 'sidebar-collapsed' : ''}`}>
         <WorkbenchSidebar active="sku" collapsed={sidebarCollapsed} onToggle={onToggleSidebar} onNavigate={onNavigate} onUnavailable={(label) => notify(`${label}将在后续业务阶段接入`)} />
-        <SkuEpcIntake onBack={() => setEpcOpen(false)} onComplete={() => { setEpcOpen(false); loadCatalog() }} onNotify={notify} />
+        <SkuEpcIntake onBack={() => { setEpcOpen(false); loadCatalog() }} onComplete={(result) => { const resultId = result.items.find((item) => item.resultingSkuId)?.resultingSkuId; setEpcOpen(false); if (resultId) setSelectedId(resultId); loadCatalog() }} onNotify={notify} />
         {toast ? <div className="workbench-toast"><Check size={17} weight="bold" />{toast}</div> : null}
       </div>
     )

diff --git a/apps/web/src/services/catalogApi.js b/apps/web/src/services/catalogApi.js
@@ -152,6 +152,16 @@ export function createCatalogEpcPreview(input) {
   return request('/api/v2/catalog/epc-previews', { method: 'POST', body: JSON.stringify(input) })
 }
 
+export function listCatalogEpcPreviews({ state = '', page = 1, pageSize = 50 } = {}) {
+  const params = new URLSearchParams({ page: String(page), pageSize: String(pageSize) })
+  if (state) params.set('state', state)
+  return request(`/api/v2/catalog/epc-previews?${params}`)
+}
+
+export function getCatalogEpcPreview(id) {
+  return request(`/api/v2/catalog/epc-previews/${encodeURIComponent(id)}`)
+}
+
 export function commitCatalogEpcPreview(preview, decisions) {
   return request(`/api/v2/catalog/epc-previews/${encodeURIComponent(preview.id)}/commit`, {
     method: 'POST', body: JSON.stringify({ expectedVersion: preview.version, decisions }),
